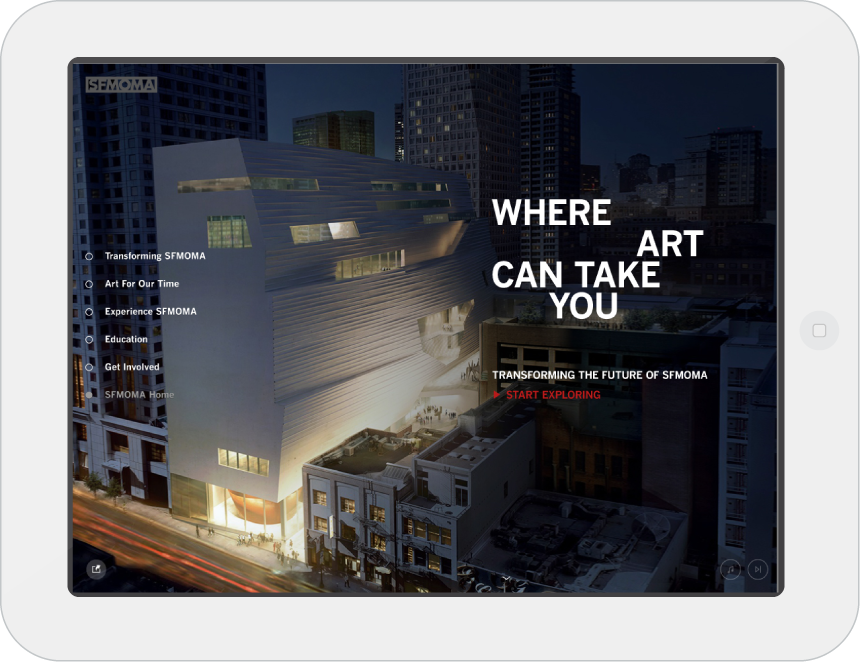
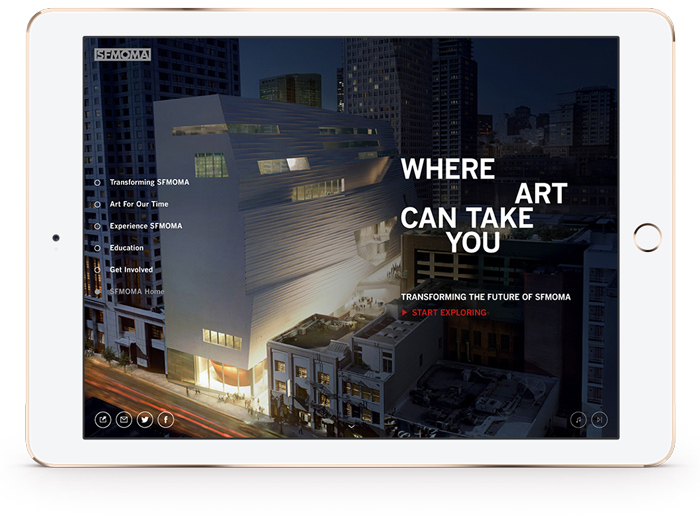
optimizing images

diff --git a/source/stylesheets/projects/_sfmoma.css.sass b/source/stylesheets/projects/_sfmoma.css.sass
@@ -93,7 +93,7 @@
         .inner_slide_container
           .art_work_sfmoma
             .ipad_holder
-              +background-image(image-url("sfmoma/main/ipad_v2.png"))
+              +background-image(image-url("sfmoma/main/ipad.png"))
             .art_work_holder
               +background-image(image-url("sfmoma/main/Alexander_Calder_Double_Gong.png"))
               
